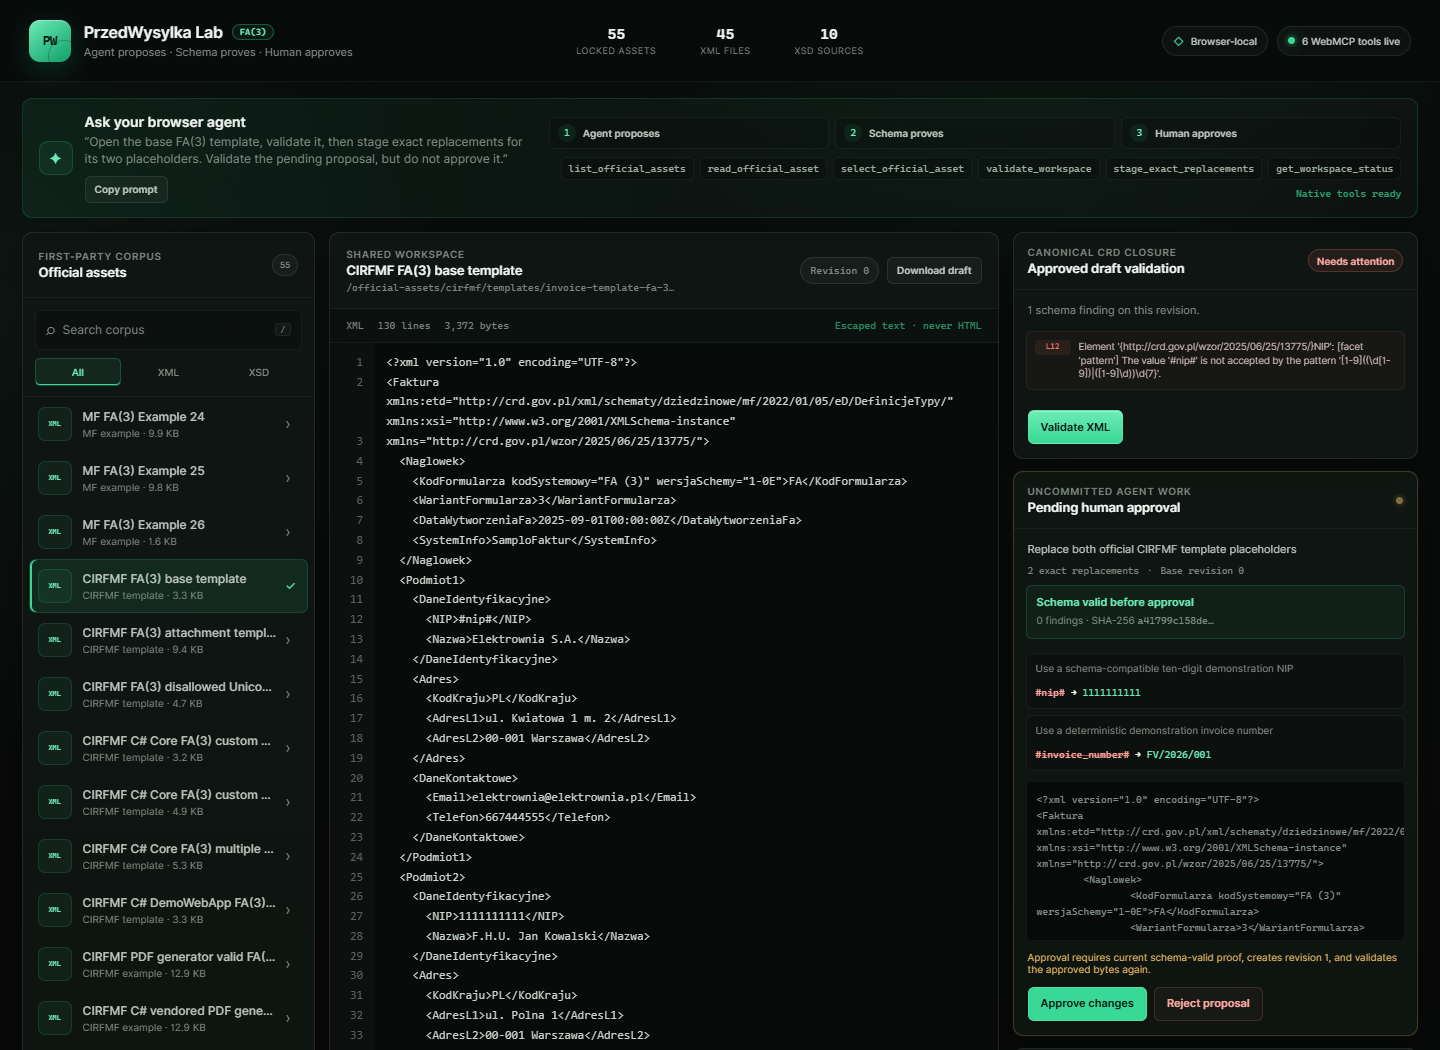
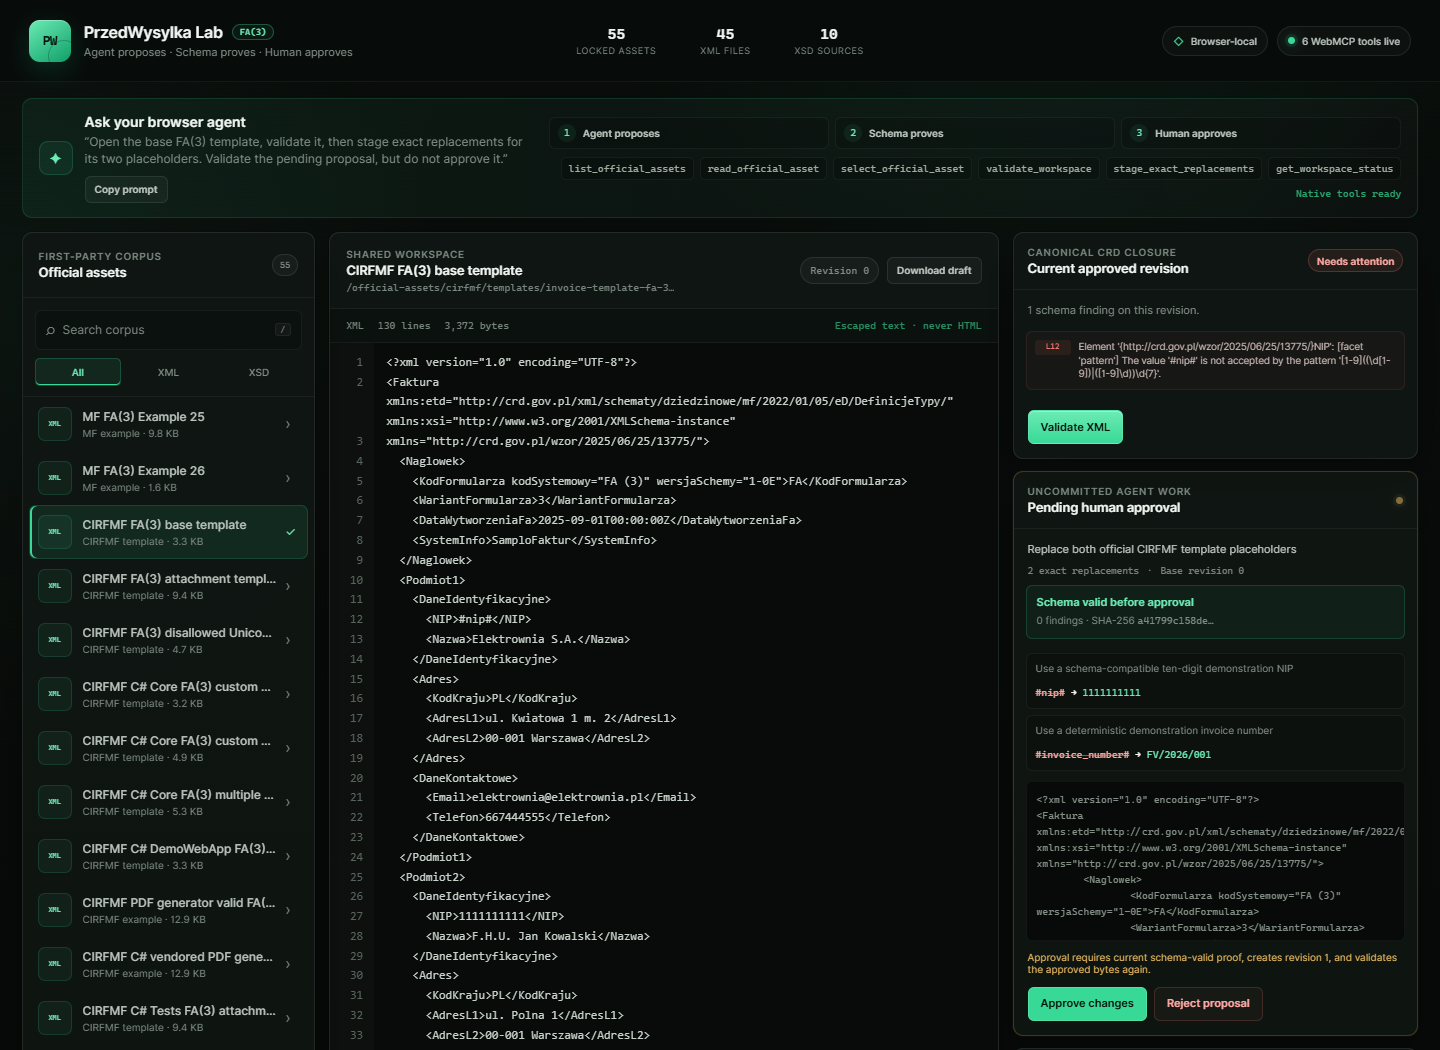
feat: prepare live demo and submission package
Polish the mobile corpus viewport and revision labeling, document the verified Netlify deployment, and provide ready-to-paste Devpost and YouTube materials. Refresh proof-bound native and injected evidence after the UI changes.

diff --git a/tests/e2e/workbench.spec.ts b/tests/e2e/workbench.spec.ts
@@ -297,3 +297,32 @@ test("judge-critical evidence stays legible and actionable on desktop and mobile
   );
   expect(serious).toEqual([]);
 });
+
+test("keeps the default selected asset fully visible inside the mobile corpus list", async ({
+  page,
+}) => {
+  await page.setViewportSize({ width: 390, height: 844 });
+  await installWebMcpHarness(page);
+  await page.goto("/");
+  await expect(page.getByText("6 WebMCP tools live")).toBeVisible();
+
+  const geometry = await page.evaluate(() => {
+    const list = document.querySelector(".asset-list") as HTMLElement;
+    const selected = document.querySelector(
+      ".asset-item.is-selected",
+    ) as HTMLElement;
+    const listBox = list.getBoundingClientRect();
+    const selectedBox = selected.getBoundingClientRect();
+    return {
+      listTop: listBox.top,
+      listBottom: listBox.bottom,
+      selectedTop: selectedBox.top,
+      selectedBottom: selectedBox.bottom,
+    };
+  });
+
+  expect(geometry.selectedTop).toBeGreaterThanOrEqual(geometry.listTop - 0.5);
+  expect(geometry.selectedBottom).toBeLessThanOrEqual(
+    geometry.listBottom + 0.5,
+  );
+});

diff --git a/tests/evidence-wording.test.ts b/tests/evidence-wording.test.ts
@@ -161,6 +161,26 @@ describe("evidence wording", () => {
     );
     const exactPrompt =
       "Open the base FA(3) template, validate it, then stage exact replacements for its two placeholders. Validate the pending proposal, but do not approve it.";
+    const liveUrl = "https://przedwysylka-webmcp-lab-greqone.netlify.app/";
+
+    for (const content of [readme, submission, demoScript]) {
+      expect(content).toContain(liveUrl);
+    }
+    expect(submission).not.toContain("Public deployment URL: not assigned");
+    for (const heading of [
+      "## Testing instructions",
+      "## Inspiration",
+      "## Challenges we ran into",
+      "## Accomplishments that we're proud of",
+      "## What we learned",
+      "## What's next",
+      "## Final submission checklist",
+    ]) {
+      expect(submission).toContain(heading);
+    }
+    expect(demoScript).toContain("## Recording setup");
+    expect(demoScript).toContain("## YouTube package");
+    expect(demoScript).toContain("Current approved revision");
 
     expect(readme).toContain(
       "**Agent proposes. Schema proves. Human approves.**",

diff --git a/src/components/AssetLibrary.tsx b/src/components/AssetLibrary.tsx
@@ -80,8 +80,17 @@ export function AssetLibrary({
     const container = element?.parentElement;
     if (!element || !container) return;
 
-    const itemTop = element.offsetTop - container.offsetTop;
-    container.scrollTop = Math.max(0, itemTop - element.offsetHeight * 3);
+    const items = [
+      ...container.querySelectorAll<HTMLButtonElement>(".asset-item"),
+    ];
+    const selectedIndex = items.indexOf(element);
+    const anchor = items[Math.max(0, selectedIndex - 2)] ?? element;
+    const anchorTop = anchor.getBoundingClientRect().top;
+    const containerTop = container.getBoundingClientRect().top;
+    container.scrollTop = Math.max(
+      0,
+      container.scrollTop + anchorTop - containerTop,
+    );
   }, [selectedId]);
 
   return (

diff --git a/src/components/ValidationPanel.tsx b/src/components/ValidationPanel.tsx
@@ -41,7 +41,7 @@ export function ValidationPanel({
       <div className="panel-heading compact-heading">
         <div>
           <span className="eyebrow">Canonical CRD closure</span>
-          <h2 id="validation-title">Approved draft validation</h2>
+          <h2 id="validation-title">Current approved revision</h2>
         </div>
         <span className={`result-pill result-pill--${statusClass}`}>
           {status}

diff --git a/src/App.test.tsx b/src/App.test.tsx
@@ -134,7 +134,7 @@ describe("FA(3) workbench", () => {
 
     await user.click(screen.getByRole("button", { name: "Validate XML" }));
     expect(
-      screen.getByRole("heading", { name: "Approved draft validation" }),
+      screen.getByRole("heading", { name: "Current approved revision" }),
     ).toBeTruthy();
     expect(await screen.findByText("Needs attention")).toBeTruthy();
 

diff --git a/docs/submission.md b/docs/submission.md
@@ -1,4 +1,4 @@
-# Devpost submission draft
+# Devpost submission package
 
 ## Project name
 
@@ -8,13 +8,30 @@ PrzedWysylka WebMCP Lab
 
 A browser-local FA(3) workbench where an agent can prove a repair while approval remains a visible UI decision.
 
-## Submission status
+## Submission links and gates
 
+- Working live URL: https://przedwysylka-webmcp-lab-greqone.netlify.app/
 - Source repository: https://github.com/greqone/PrzedWysylkaWebMCPLab (currently private; it must be public before submission)
-- Public deployment URL: not assigned until operator-approved publication
-- YouTube demo URL: not assigned until the final recording is reviewed and published
+- YouTube demo URL: pending final recording, review, and public upload
+- Credentials: none
+- Hosting: Netlify continuous deployment from `main`
 
-No URL is fabricated in this draft. The product, production build, native-browser evidence, and recording runbook exist independently of those publication gates. This draft is not submission-ready until the live URL, public repository, and public video are real.
+The copy below is ready to paste into Devpost. Two operator gates remain: make the repository public and publish the reviewed video on YouTube. Do not submit until both URLs work in a signed-out browser.
+
+## Testing instructions
+
+1. Open https://przedwysylka-webmcp-lab-greqone.netlify.app/ in the current ChatGPT Desktop built-in browser.
+2. Use GPT-5.6 Sol or GPT-5.6 Terra. GPT-5.6 Luna currently has WebMCP disabled.[5]
+3. Open `Site tools` → `Available site tools` and confirm that exactly six tools are listed.
+4. Send: "Open the base FA(3) template, validate it, then stage exact replacements for its two placeholders. Validate the pending proposal, but do not approve it."
+5. Wait for the pending proposal to show `Schema valid before approval`, zero findings, and an enabled `Approve changes` button.
+6. Click `Approve changes` in the visible page UI. Revision 1 should validate as `Schema valid`.
+
+Chrome 149+ is an alternative: enable `chrome://flags/#enable-webmcp-testing`, relaunch, and open the same URL.[1][6] Ordinary browsers still provide the complete manual UI and browser-local validator; the header honestly reports `WebMCP unavailable`. No login or credentials are required.
+
+## Inspiration
+
+Structured invoice errors are rarely interesting, but they are expensive to diagnose. An agent can help locate and prepare a repair, yet the person responsible for the document still needs to inspect the exact change. WebMCP makes that collaboration visible in the page instead of hiding it behind DOM automation or a separate server.
 
 ## What it does
 
@@ -50,7 +67,7 @@ Before WebMCP, an agent would need to inspect DOM text, guess which schema and r
 
 The human sees the same selected file, finding, proposal, and audit trail throughout the flow.
 
-## How WebMCP is implemented
+## How we built it
 
 The app feature-detects `document.modelContext` and registers six imperative tools with `document.modelContext.registerTool()`. Tool definitions use static descriptions, JSON input schemas, read-only/untrusted-content annotations where applicable, Zod validation inside callbacks, and one AbortController for lifecycle cleanup.
 
@@ -76,7 +93,7 @@ All callbacks reuse the asset registry, validator, replacement engine, and works
 - `xmllint-wasm` / libxml2
 - Zod
 - Vitest + Playwright + Axe
-- Static Netlify-compatible deployment
+- Netlify continuous deployment
 
 ## Verification evidence
 
@@ -90,6 +107,32 @@ The data evidence is deliberately separate:
 - an independent default-tree census partitions all 39 XML and 31 XSD paths from six pinned repositories and discovers exactly 18 FA(3) XML and 6 FA(3) XSD paths before reconciliation; repository and archive fields are verifier-owned snapshot identities, live heads use public-IP-pinned GitHub REST, and the test suite re-executes the live census rather than trusting the committed report;
 - the upstream gate replays 55 source records from 30 corpus HTTP resources, then replays four pinned CIRFMF license resources, for 34 total HTTP resources;
 - browser WASM and independent `xmllint` validity-class gates agree with 28 expected-valid and 16 expected-invalid FA(3) source records.
+
+## Challenges we ran into
+
+The hard part was not registering six functions. It was keeping the browser, agent, validator, and visible UI on the same exact state. We had to preserve upstream CRLF and bare-CR bytes across paged reads, prevent stale async work from committing after cancellation, fit hostile-but-valid results inside a 1,500-character envelope, and bind proposal validation to the bytes that approval would apply. We also kept native Chrome evidence separate from the injected test harness so the submission does not claim more than it proves.
+
+## Accomplishments that we're proud of
+
+- The deployed production app exposes exactly six native WebMCP tools and no approval, rejection, upload, download, or submission tool.
+- The repository freezes all 55 scoped first-party records rather than selecting only convenient examples.
+- Approval stays disabled until the current proposal has a valid store-owned SHA-256 proof.
+- The app has no backend, account, analytics, upload path, or customer data surface.
+- Native Chrome, injected E2E, independent `xmllint`, corpus replay, responsive layout, and accessibility checks cover different failure boundaries instead of sharing one optimistic test.
+
+## What we learned
+
+WebMCP works best when it exposes capabilities the page already owns. The page should remain the source of truth for selection, validation, revision state, and review. Omitting a consequential capability can be as important as adding one, but omission does not prove human identity: the honest claim is that approval is not a WebMCP tool and remains a visible UI action. We also learned that cancellation, output size, cursor fidelity, and evidence identity are part of the product contract, not cleanup work after the demo succeeds.
+
+## What's next
+
+The same pattern can support other regulated schemas where an agent should prepare work without becoming the final authority. A production version could add user-provided documents only after a separate privacy and threat-model review, then extend the proof model to business rules and organization-specific review policies. The six-tool competition surface stays intentionally narrow.
+
+## Media
+
+- Recommended Devpost gallery image: [`assets/native-workbench.png`](assets/native-workbench.png)
+- Gallery caption: `Native Chrome WebMCP workflow: Revision 0 fails, the pending proposal has a schema-valid SHA-256 proof, and approval remains a visible UI action.`
+- Demo video: use [`demo-script.md`](demo-script.md); public YouTube URL still pending.
 
 ## Challenge criteria
 
@@ -108,3 +151,23 @@ Structured regulatory XML is high-friction and error-prone. The pattern generali
 ### Creativity and ambition
 
 The project treats the web page as a shared review room—not a UI to bypass—and removes approval from the WebMCP capability surface while keeping the final decision visible in the interface.
+
+## Final submission checklist
+
+- [x] Working public Netlify URL with no credentials
+- [x] English project description and testing instructions
+- [x] Complete source, local setup, MIT license, and third-party notices in the repository
+- [x] Native Chrome and deterministic test evidence
+- [ ] Change the GitHub repository visibility from private to public
+- [ ] Verify the MIT license is detected in the public repository About panel
+- [ ] Record the live ChatGPT Desktop workflow with a visible manual approval click
+- [ ] Review the video for notifications, personal information, trademarks, and copyrighted audio
+- [ ] Upload the video as Public on YouTube and replace the pending URL above
+- [ ] Open the live URL, repository, and video in a signed-out browser
+- [ ] Submit before September 3, 2026 at 4:00 PM EDT (1:00 PM PT)[6]
+
+## Sources
+
+[1] https://developer.chrome.com/docs/ai/webmcp
+[5] https://learn.chatgpt.com/docs/webmcp
+[6] https://webmcp.devpost.com/rules

diff --git a/README.md b/README.md
@@ -4,15 +4,17 @@
 
 PrzedWysylka WebMCP Lab is a browser-local FA(3) XML workbench where a person and a browser agent share the same official source, validator, pending diff, and audit trail. Through WebMCP, the agent can prepare exact work; approval, rejection, and download are absent from the WebMCP capability surface and remain visible UI actions.
 
+**Live demo:** [https://przedwysylka-webmcp-lab-greqone.netlify.app/](https://przedwysylka-webmcp-lab-greqone.netlify.app/) — no account or credentials required.
+
 ![Native Chrome WebMCP workflow capture: invalid approved draft beside a schema-valid pending proposal and UI-only review controls](docs/assets/native-workbench.png)
 
 This is a production-build native Chrome capture, not a mock or injected API. [`docs/assets/native-webmcp-smoke.json`](docs/assets/native-webmcp-smoke.json) uses evidence schema version 2 and records Node `22.22.2`, the exact evidence-time Chrome build, `nativeModelContext: true`, `injectedHarness: false`, exactly six tools, a deterministic production-artifact digest, manifest/source-scope/screenshot hashes, an invalid Revision 0, and a valid Revision 1 with no browser errors. The smoke asserts that the preflight hash, pending-status hash, store-proof hash, and final draft hash are equal. It uses an automated Playwright click through the visible UI review control, so it proves the browser's native registration, callback, proof, and UI-gate paths; it does not claim that a person approved this automated test or that an AI model chose the right tools unaided. Like any web interface, browser automation may still actuate UI controls under the browser's own safety policies; this application does not infer a physical human from a click.
 
-> **Publication gate:** the repository does not invent a live deployment or YouTube URL. Those remain explicit operator actions and must be filled in before submission.
+> **Submission gate:** the live deployment is active. The GitHub repository is still private and the public YouTube URL does not exist yet; both must be completed and verified before the Devpost entry is submitted.
 
 ## 30-second judge path
 
-1. Open the app in the current ChatGPT Desktop built-in browser with GPT-5.6 Sol or GPT-5.6 Terra. GPT-5.6 Luna currently has WebMCP disabled.[5]
+1. Open the [live demo](https://przedwysylka-webmcp-lab-greqone.netlify.app/) in the current ChatGPT Desktop built-in browser with GPT-5.6 Sol or GPT-5.6 Terra. GPT-5.6 Luna currently has WebMCP disabled.[5]
 2. Open `Site tools` and expect exactly six tools. Chrome 149+ is the alternative: enable `chrome://flags/#enable-webmcp-testing`, then relaunch.[1][6]
 3. Send the exact prompt below.
 4. Watch Revision 0 fail canonical validation while the pending proposal earns a schema-valid SHA-256 proof.
@@ -91,6 +93,10 @@ The bundled XML/XSD files are excluded from this repository's MIT license. See t
 ## Clean-room public boundary
 
 This repository was created during the challenge window. It does **not** contain code copied from the private PrzedWysylka product, production repair rules, KSeF integrations, credentials, configuration, telemetry, or customer data. The implementation is a small clean-room wrapper over public dependencies and public first-party fixtures.
+
+## Live deployment
+
+Netlify serves the production app at [przedwysylka-webmcp-lab-greqone.netlify.app](https://przedwysylka-webmcp-lab-greqone.netlify.app/). Continuous deployment tracks `main` from this repository and uses the committed `netlify.toml`: Node `22.22.2`, npm `11.2.0`, `npm run build`, and `dist`. The deployment requires no login and keeps XML processing in the browser.
 
 ## Run locally
 
@@ -199,7 +205,7 @@ See [`docs/architecture.md`](docs/architecture.md) for component boundaries and 
 - [`docs/assets/upstream-verification.json`](docs/assets/upstream-verification.json) — live first-party byte replay evidence
 - [`THIRD_PARTY_NOTICES.md`](THIRD_PARTY_NOTICES.md) — asset and dependency provenance
 
-The public deployment and final submission remain explicit operator actions.
+Repository publication, the final human-click recording, YouTube publication, and Devpost submission remain explicit operator actions.
 
 ## Sources
 

diff --git a/docs/demo-script.md b/docs/demo-script.md
@@ -2,6 +2,17 @@
 
 The final recording must be under three minutes, in English, with audible narration.[6] Record at 1440×900 or higher in the current ChatGPT Desktop built-in browser. Use GPT-5.6 Sol or GPT-5.6 Terra; GPT-5.6 Luna currently has WebMCP disabled.[5]
 
+**Live URL:** https://przedwysylka-webmcp-lab-greqone.netlify.app/
+
+## Recording setup
+
+1. Make the GitHub repository public and confirm the MIT license appears in its About panel.
+2. Open the live URL in a signed-out ordinary browser and confirm it needs no credentials.
+3. Update ChatGPT Desktop, select GPT-5.6 Sol or GPT-5.6 Terra, open the live URL in the built-in browser, and confirm `Site tools` lists exactly six tools.
+4. Hard-reload the page so the recording starts at Revision 0 with no pending proposal.
+5. Record at 1440×1050 when possible. Hide notifications, bookmarks, unrelated tabs, account details, and desktop clutter.
+6. Rehearse once, then start a fresh page for the final take. Do not splice the proposal proof and manual approval click.
+
 ## 0:00–0:18 — Problem and product
 
 **On screen:** Full workbench, header and complete corpus count.
@@ -37,7 +48,7 @@ Open `Site tools` and briefly show exactly six available tools. Keep the app and
 
 > The agent discovers structured page tools instead of scraping controls. It selects the official template and validates the current approved draft against the same canonical schema closure used by the UI.
 
-Show `Approved draft validation`, Revision 0, `Needs attention`, and the finding for `#nip#`. Hold long enough for the scope to be readable.
+Show `Current approved revision`, Revision 0, `Needs attention`, and the finding for `#nip#`. Hold long enough for the scope to be readable.
 
 ## 1:08–1:43 — Agent proposes and schema proves
 
@@ -88,6 +99,22 @@ Wait for `Schema valid`.
 - Do not cut between proposal preflight and approval; the human click must be visible.
 - Ensure narration is English and no copyrighted music plays.
 - Review the final video for personal information, notifications, bookmarks, and unrelated trademarks before publishing.
+
+## YouTube package
+
+**Title:** PrzedWysylka WebMCP Lab — Agent proposes, schema proves, human approves
+
+**Description:**
+
+> PrzedWysylka WebMCP Lab is a browser-local FA(3) XML workbench built for the WebMCP Challenge. A browser agent uses six page-native tools to inspect official sources, validate Revision 0, stage two exact replacements, and validate the pending bytes. Approval remains a visible UI action. The final Revision 1 is validated again against the canonical schema closure.
+>
+> Live demo: https://przedwysylka-webmcp-lab-greqone.netlify.app/
+>
+> Source: https://github.com/greqone/PrzedWysylkaWebMCPLab
+
+**Thumbnail:** use `docs/assets/native-workbench.png` or a clean frame showing `Schema valid before approval` and the enabled `Approve changes` button.
+
+**Visibility:** Public. Confirm the public watch URL in a signed-out browser before adding it to Devpost.
 
 ## Sources
 
